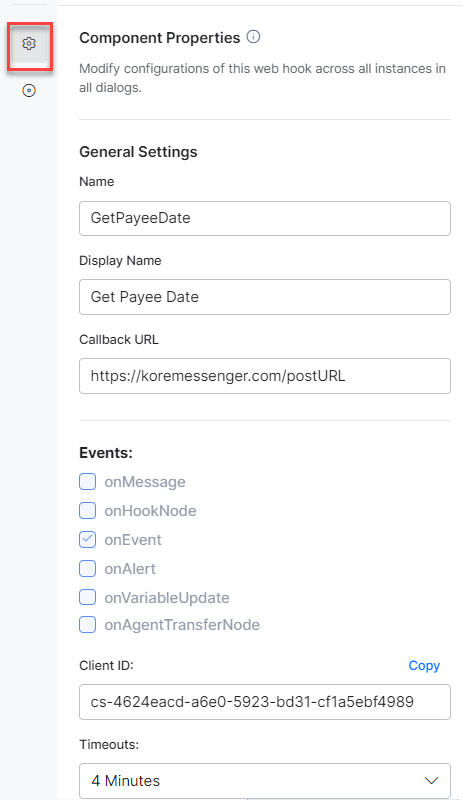
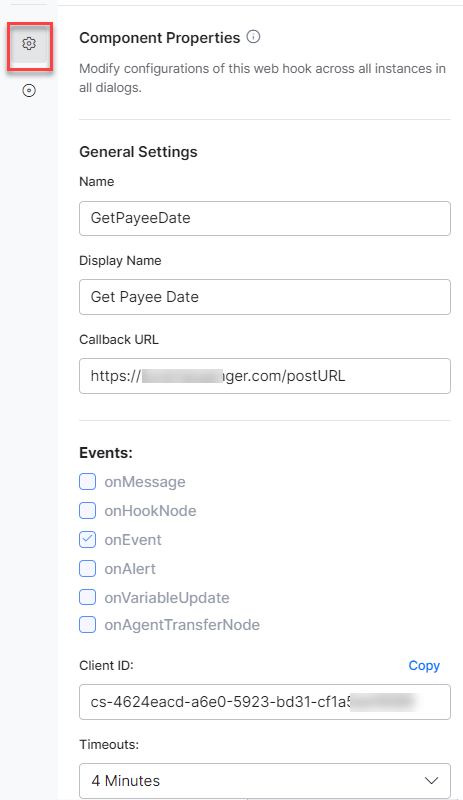
Sensitive info masking

Changed region(s): [[0.3024, 0.4375, 0.4838, 0.5], [0.7559, 0.8438, 0.9071, 0.9062]]

diff --git a/docs/xo/generative-ai-tools/xogpt-dialoggpt-model.md b/docs/xo/generative-ai-tools/xogpt-dialoggpt-model.md
@@ -341,7 +341,7 @@ Sample Input
 
 {
 
-"ID": "kZryjJQBY6hZN8s7spcH",
+"ID": "kZryjJQBY6hZN8s7xxxx",
 
 "Name": "Virtual Consultation",
 
@@ -349,7 +349,7 @@ Sample Input
 
 "Description": "Schedule or initiate virtual consultations with healthcare providers",
 
-"appId": "st-f4bf93b5-d644-44fb-b9be-a540dedda4eb",
+"appId": "st-f4bf93b5-d644-44fb-b9be-a540deddxxxx",
 
 "appName": "qxLm9qat"
 
@@ -357,7 +357,7 @@ Sample Input
 
 {
 
-"ID": "jZryjJQBY6hZN8s7spcH",
+"ID": "jZryjJQBY6hZN8s7xxxx",
 
 "Name": "Get Definition of Disease",
 
@@ -365,7 +365,7 @@ Sample Input
 
 "Description": "Get descriptions of a medical condition on request",
 
-"appId": "st-cdff109c-6fe4-4d2b-9b11-1112b567362f",
+"appId": "st-cdff109c-6fe4-4d2b-9b11-1112b567xxxx",
 
 "appName": "TFkjZQUq"
 
@@ -381,7 +381,7 @@ Sample Input
 
 {
 
-"ID": "lJryjJQBY6hZN8s7spcH",
+"ID": "lJryjJQBY6hZN8s7xxxx",
 
 "score": 0.63696957,
 
@@ -389,7 +389,7 @@ Sample Input
 
 "Alternate Questions": [],
 
-"appId": "st-d6687199-8859-4fcb-822f-af6dc0e390b4",
+"appId": "st-d6687199-8859-4fcb-822f-af6dc0e3xxxx",
 
 "appName": "jSOOVqRG"
 
@@ -405,11 +405,11 @@ Sample Input
 
 {
 
-"docID": "fc-a3894938-12b2-4b7f-bb86-274e2feeada0",
+"docID": "fc-a3894938-12b2-4b7f-bb86-274e2feexxxx",
 
 "docName": "Discharge process | Fortis Healthcare",
 
-"chunkID": "chk-b65b4772-ad41-4632-8c39-09c6b014a7c2",
+"chunkID": "chk-b65b4772-ad41-4632-8c39-09c6b01xxxx",
 
 "score": 1,
 
@@ -430,7 +430,7 @@ Output:
 "winning_intents": ["9Ham9fDB:Can I consult a doctor online?", "qxLm9qat:Virtual Consultation"]
 }
 ```
-
+4
 **Example 2: multiple_intents**
 
 Sample Input
@@ -456,7 +456,7 @@ Sample Input
 
 {
 
-"ID": "eksOZ5MB5L_rgqT07Sib",
+"ID": "eksOZ5MB5L_rgqT0xxxx",
 
 "Name": "Apply Credit Card",
 
@@ -464,7 +464,7 @@ Sample Input
 
 "Description": "Provide information and assistance in applying for a credit card. I want to apply for a credit card. Is the sample user utterance.",
 
-"appId": "st-b77e8fa8-ab2c-4bcb-a4f6-1e481d5b8ad9",
+"appId": "st-b77e8fa8-ab2c-4bcb-a4f6-1e481d5bxxxx",
 
 "appName": "RzWixwEa"
 
@@ -472,7 +472,7 @@ Sample Input
 
 {
 
-"ID": "e0sOZ5MB5L_rgqT07Sib",
+"ID": "e0sOZ5MB5L_rgqT0xxxx",
 
 "Name": "Apply Home Loan",
 
@@ -480,7 +480,7 @@ Sample Input
 
 "Description": "Provide information and assistance in applying for a home loan. I would like to apply for a home loan. Is the sample user utterance.",
 
-"appId": "st-f695cbb4-e64d-4524-92fa-d6e047a4fa8a",
+"appId": "st-f695cbb4-e64d-4524-92fa-d6e047a4xxxx",
 
 "appName": "HvQ0049Q"
 
@@ -488,7 +488,7 @@ Sample Input
 
 {
 
-"ID": "eUsOZ5MB5L_rgqT07Sib",
+"ID": "eUsOZ5MB5L_rgqT0xxxx",
 
 "Name": "Apply Car Loan",
 
@@ -496,7 +496,7 @@ Sample Input
 
 "Description": "Provide information and assistance in applying for a car loan. Can you help me apply for a car loan? Is the sample user utterance.",
 
-"appId": "st-8a9c39ef-d5da-404c-ad75-0dcda69cde7e",
+"appId": "st-8a9c39ef-d5da-404c-ad75-0dcda69cxxxx",
 
 "appName": "6c7bdqDW"
 
@@ -512,7 +512,7 @@ Sample Input
 
 {
 
-"ID": "oksOZ5MB5L_rgqT07Sib",
+"ID": "oksOZ5MB5L_rgqT0xxxx",
 
 "score": 0.7379093,
 
@@ -520,7 +520,7 @@ Sample Input
 
 "Alternate Questions": [],
 
-"appId": "st-e33962a9-a4ba-4945-9f8a-951b3c5ef37a",
+"appId": "st-e33962a9-a4ba-4945-9f8a-951b3c5exxxx",
 
 "appName": "FWdE3Gtv"
 
@@ -528,7 +528,7 @@ Sample Input
 
 {
 
-"ID": "p0sOZ5MB5L_rgqT07Sib",
+"ID": "p0sOZ5MB5L_rgqT0xxxx",
 
 "score": 0.65209055,
 
@@ -536,7 +536,7 @@ Sample Input
 
 "Alternate Questions": [],
 
-"appId": "st-53651233-caee-46e2-8305-f3265c93940e",
+"appId": "st-53651233-caee-46e2-8305-f3265c93xxxx",
 
 "appName": "4YC0HJYi"
 
@@ -544,7 +544,7 @@ Sample Input
 
 {
 
-"ID": "rEsOZ5MB5L_rgqT07Sib",
+"ID": "rEsOZ5MB5L_rgqT0xxxx",
 
 "score": 0.60929346,
 
@@ -552,7 +552,7 @@ Sample Input
 
 "Alternate Questions": [],
 
-"appId": "st-b5446efd-2afa-4e35-a1ef-1d81f49efa1e",
+"appId": "st-b5446efd-2afa-4e35-a1ef-1d81f49exxxx",
 
 "appName": "mvFiwtma"
 
@@ -568,11 +568,11 @@ Sample Input
 
 {
 
-"docID": "fc-ee287d4e-3ee0-5e96-8b38-7fc14bd62639",
+"docID": "fc-ee287d4e-3ee0-5e96-8b38-7fc14bd6xxxx",
 
 "docName": "Home loan .pdf",
 
-"chunkID": "chk-106b01f5-04cf-49a2-b9e1-70140029a524",
+"chunkID": "chk-106b01f5-04cf-49a2-b9e1-70140029xxxx",
 
 "score": 0.32762766,
 
@@ -582,11 +582,11 @@ Sample Input
 
 {
 
-"docID": "fc-ee287d4e-3ee0-5e96-8b38-7fc14bd62639",
+"docID": "fc-ee287d4e-3ee0-5e96-8b38-7fc14bd6xxxx",
 
 "docName": "Home loan .pdf",
 
-"chunkID": "chk-e0cc57dc-aef8-4543-9600-0e4cad9956d7",
+"chunkID": "chk-e0cc57dc-aef8-4543-9600-0e4cad99xxxx",
 
 "score": 1.5174901,
 
@@ -642,7 +642,7 @@ Output:
 
 {
 
-"ID": "gksOZ5MB5L_rgqT07Sib",
+"ID": "gksOZ5MB5L_rgqT0xxxx",
 
 "Name": "Change Address",
 
@@ -650,7 +650,7 @@ Output:
 
 "Description": "Update the registered address for the user's bank account. I need to change the address on file. Is the sample user utterance.",
 
-"appId": "st-5d48dd57-b37d-4b3a-97cf-acb49d69a423",
+"appId": "st-5d48dd57-b37d-4b3a-97cf-acb49d6xxxx",
 
 "appName": "ooNsySJK"
 
@@ -658,7 +658,7 @@ Output:
 
 {
 
-"ID": "5rgNjZMBCH6z08AN_rwA",
+"ID": "5rgNjZMBCH6z08AN_xxx",
 
 "Name": "Close Account",
 
@@ -666,7 +666,7 @@ Output:
 
 "Description": "Process a request to close an existing bank account. I want to close my checking account. Is the sample user utterance.",
 
-"appId": "st-940072d5-0bde-4815-a8f1-efde48c90962",
+"appId": "st-940072d5-0bde-4815-a8f1-efde48c9xxxx",
 
 "appName": "6VpxGM89"
 
@@ -711,7 +711,7 @@ Output:
 
 {
 
-"ID": "gksOZ5MB5L_rgqT07Sib",
+"ID": "gksOZ5MB5L_rgqT0xxxx",
 
 "Name": "Change Address",
 
@@ -719,7 +719,7 @@ Output:
 
 "Description": "Update the registered address for the user's bank account. I need to change my address on file. Is the sample user utterance.",
 
-"appId": "st-81eb7684-8627-492f-894e-63ca462c3c3a",
+"appId": "st-81eb7684-8627-492f-894e-63ca462cxxxx",
 
 "appName": "KhBKv8T6"
 
@@ -735,7 +735,7 @@ Output:
 
 {
 
-"ID": "o0sOZ5MB5L_rgqT07Sib",
+"ID": "o0sOZ5MB5L_rgqT0xxxx",
 
 "score": 0.5700793,
 
@@ -743,7 +743,7 @@ Output:
 
 "Alternate Questions": [],
 
-"appId": "st-013e912d-d2de-43c9-a6d9-87a36f3f2fe2",
+"appId": "st-013e912d-d2de-43c9-a6d9-87a36f3fxxxx",
 
 "appName": "7JRpXO3t"
 
@@ -759,11 +759,11 @@ Output:
 
 {
 
-"docID": "fc-ee287d4e-3ee0-5e96-8b38-7fc14bd62639",
+"docID": "fc-ee287d4e-3ee0-5e96-8b38-7fc14bd6xxxx",
 
 "docName": "Home loan .pdf",
 
-"chunkID": "chk-83b985a0-b6fc-4080-afef-58d7b6bcc710",
+"chunkID": "chk-83b985a0-b6fc-4080-afef-58d7b6bcxxxx",
 
 "score": 1.01792,
 
@@ -832,7 +832,7 @@ Output:
 
 {
 
-"ID": "uZl0RZQBY6hZN8s77ahh",
+"ID": "uZl0RZQBY6hZN8s7xxxx",
 
 "score": 0.5770545,
 
@@ -840,7 +840,7 @@ Output:
 
 "Alternate Questions": [],
 
-"appId": "st-af62a4d0-7fe7-4de7-bff7-95b732ec0471",
+"appId": "st-af62a4d0-7fe7-4de7-bff7-95b732ecxxxx",
 
 "appName": "LpwxnlOL"
 
@@ -856,11 +856,11 @@ Output:
 
 {
 
-"docID": "fc-79e1079a-d1a4-53c8-9d40-6b28c743128e",
+"docID": "fc-79e1079a-d1a4-53c8-9d40-6b28c743xxxx",
 
 "docName": "employee-policy-manual-02-2016 (1).pdf",
 
-"chunkID": "chk-cc678e78-048a-418c-ac5b-fb31bd337d5b",
+"chunkID": "chk-cc678e78-048a-418c-ac5b-fb31bd33xxxx",
 
 "score": 1.10397,
 

diff --git a/docs/xo/apis/automation/get-sessions-history.md b/docs/xo/apis/automation/get-sessions-history.md
@@ -135,7 +135,7 @@ curl --location --request POST 'https://{{host}}/api/public/bot/{{BotId}}/getSes
      --header 'auth: {{YOUR_JWT_ACCESS_TOKEN}}' \
      --header 'Content-Type: application/json' \
      --data-raw '{
-        "sessionId": ["6465cf6e4769ed4e822b82a1","6465cf6e47Q9ed4e822b82a1"]
+        "sessionId": ["6465cf6e4769ed4e822bxxxx","6465cf6e47Q9ed4e822bxxxx"]
      }
 ```
 
@@ -429,10 +429,10 @@ For example, 2019-04-01 (or) 2019-04-01 T13:26:05.598Z. If not provided, calcula
     "moreAvailable": false,
     "sessions": [
         {
-            "sessionId": "6465cf6e4769ed4e822b82a1",
-            "botId": "st-dc600cf5-b1c5-581e-a2c3-eb81fe39c927",
+            "sessionId": "6465cf6e4769ed4e822bxxxx",
+            "botId": "st-dc600cf5-b1c5-581e-a2c3-eb81fe39xxxx",
             "channel": "rtm",
-            "userId": "u-8c4ca335-3152-5622-9cbb-51c6daf6c12f",
+            "userId": "u-8c4ca335-3152-5622-9cbb-51c6daf6xxxx",
             "start_time": "2023-05-18T07:10:38.695Z",
             "end_time": "2023-05-18T07:10:39.201Z",
             "session_lang": [
@@ -451,7 +451,7 @@ For example, 2019-04-01 (or) 2019-04-01 T13:26:05.598Z. If not provided, calcula
         }
     ],
     "invalidSessions": [
-        "6465cf6e47Q9ed4e822b82a1"
+        "6465cf6e47Q9ed4e822bxxxx"
     ]
 }
 
